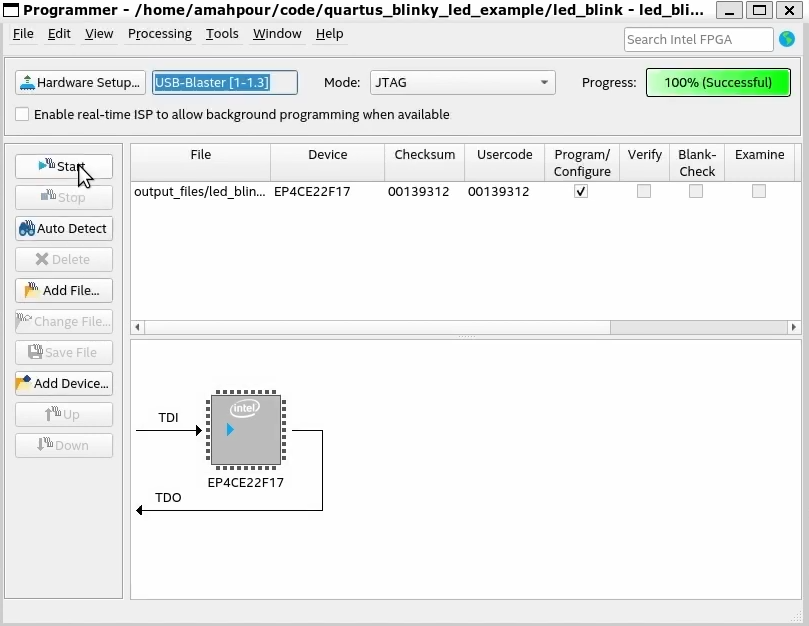
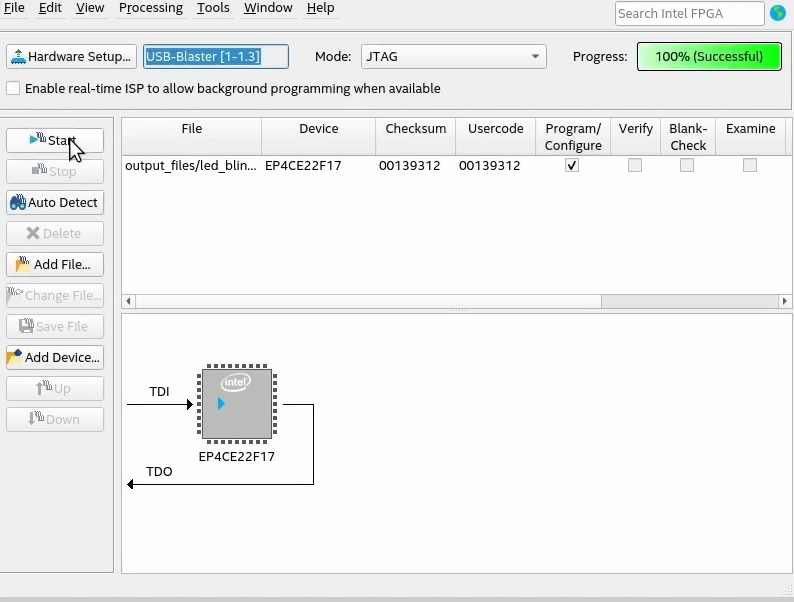
minor fix

Changed region(s): [[0.0, 0.0, 1.0, 1.0]]

diff --git a/FPGAS/My Storm Blackice/Blackice.md b/FPGAS/My Storm Blackice/Blackice.md
@@ -5,7 +5,7 @@ Las FPGAs de código abierto son comúnmente usadas en **Linux**, así que esta 
 Links importantes de acceso rapido:
 
 - [Salidas Pmod](#pin-out)
-- [Creacion de Proyecto](#creacion-de-proyecto)
+- [Creacion de Proyecto](#creación-de-proyecto)
 - [Constrains](/FPGAS/My%20Storm%20Blackice/src/top.pcf)
 
 ## Pin Out